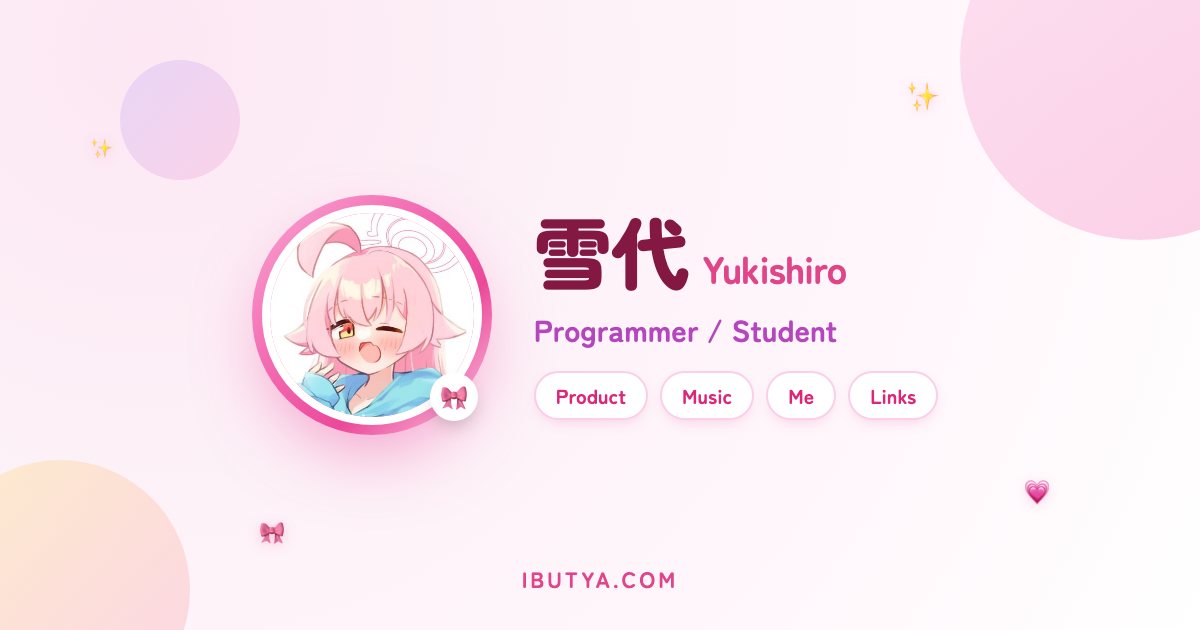
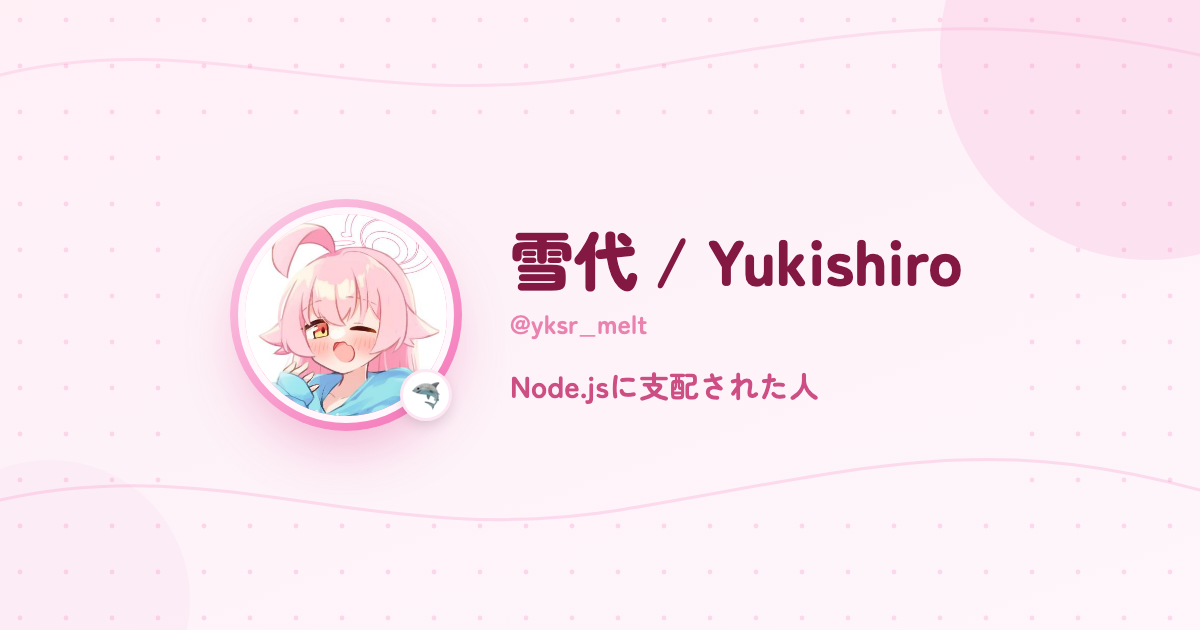
fix: tooltip position jump after hover animation, move achievements to Product
The tooltip entrance animation set the full "transform" property, which
overrode the resting -translate utilities for the animation's duration
and then snapped to them the instant it finished — visible as the
tooltip jumping right after appearing. The animation's end state now
matches the resting transform exactly.

Also moves the achievements card from Me to Product, and refreshes the
link preview image (GitHub avatar/status emoji, evenly-spaced dot
pattern, no more decorative-emoji clutter).

diff --git a/src/pages/Product.tsx b/src/pages/Product.tsx
@@ -1,9 +1,9 @@
 import { motion } from 'framer-motion'
-import { ExternalLink, Star } from 'lucide-react'
+import { ExternalLink, Star, Award } from 'lucide-react'
 import { PageHeader } from '../components/PageHeader'
 import { GithubLogo } from '../components/BrandIcons'
 import { useGithubRepos } from '../hooks/useGithubRepos'
-import { projects } from '../data/mock'
+import { projects, achievements } from '../data/mock'
 
 const statusLabel: Record<string, string> = {
   active: '運用中',
@@ -39,6 +39,39 @@ export function Product() {
         title="作ったもの"
         description="いままでに作ってきたもの。"
       />
+
+      <div className="mb-8 rounded-3xl border border-ink-200/60 bg-white p-5 shadow-softer">
+        <div className="mb-3 flex items-center gap-1.5">
+          <Award size={15} className="text-accent-400" />
+          <h3 className="text-sm font-black text-ink-900">実績</h3>
+        </div>
+        <div className="flex flex-col gap-2">
+          {achievements.map((a) => {
+            const content = (
+              <>
+                <span className="flex h-10 w-10 shrink-0 items-center justify-center rounded-xl bg-ink-50 text-lg shadow-softer">
+                  {a.emoji}
+                </span>
+                <div className="min-w-0">
+                  <p className="text-sm font-bold text-ink-800">{a.title}</p>
+                  <p className="text-xs text-ink-400">{a.description}</p>
+                </div>
+              </>
+            )
+            const className =
+              'flex items-center gap-3 rounded-2xl bg-ink-50 px-4 py-3 transition active:scale-[0.98]'
+            return a.url ? (
+              <a key={a.title} href={a.url} target="_blank" rel="noreferrer" className={className}>
+                {content}
+              </a>
+            ) : (
+              <div key={a.title} className={className}>
+                {content}
+              </div>
+            )
+          })}
+        </div>
+      </div>
 
       <div className="mb-8 grid grid-cols-1 gap-4 sm:grid-cols-2">
         {projects.map((p, i) => (

diff --git a/src/pages/Me.tsx b/src/pages/Me.tsx
@@ -1,5 +1,5 @@
 import { motion } from 'framer-motion'
-import { Mail, Sparkles, Gamepad2, Music, Clapperboard, Laptop, Server, Rocket, Award } from 'lucide-react'
+import { Mail, Sparkles, Gamepad2, Music, Clapperboard, Laptop, Server, Rocket } from 'lucide-react'
 import { PageHeader } from '../components/PageHeader'
 import { useGithubSummary } from '../hooks/useGithubSummary'
 import {
@@ -8,7 +8,6 @@ import {
   interests,
   setup,
   wantToTry,
-  achievements,
   contactEmails,
   type InterestIcon,
   type SetupIcon,
@@ -114,35 +113,6 @@ export function Me() {
               {item}
             </span>
           ))}
-        </div>
-      </Card>
-
-      <Card title="実績" delay={0.15} icon={<Award size={15} className="text-accent-400" />}>
-        <div className="flex flex-col gap-2">
-          {achievements.map((a) => {
-            const content = (
-              <>
-                <span className="flex h-10 w-10 shrink-0 items-center justify-center rounded-xl bg-white text-lg shadow-softer">
-                  {a.emoji}
-                </span>
-                <div className="min-w-0">
-                  <p className="text-sm font-bold text-ink-800">{a.title}</p>
-                  <p className="text-xs text-ink-400">{a.description}</p>
-                </div>
-              </>
-            )
-            const className =
-              'flex items-center gap-3 rounded-2xl bg-ink-50 px-4 py-3 transition active:scale-[0.98]'
-            return a.url ? (
-              <a key={a.title} href={a.url} target="_blank" rel="noreferrer" className={className}>
-                {content}
-              </a>
-            ) : (
-              <div key={a.title} className={className}>
-                {content}
-              </div>
-            )
-          })}
         </div>
       </Card>
 

diff --git a/src/index.css b/src/index.css
@@ -26,7 +26,8 @@
   --shadow-soft: 0 8px 30px -8px rgb(0 0 0 / 0.08);
   --shadow-softer: 0 4px 16px -4px rgb(0 0 0 / 0.06);
 
-  --animate-tooltip-in: tooltip-in 0.12s ease-out;
+  --animate-tooltip-in: tooltip-in 0.12s ease-out forwards;
+  --animate-tooltip-in-above: tooltip-in-above 0.12s ease-out forwards;
   --animate-cell-in: cell-in 0.25s ease-out both;
 
   @keyframes tooltip-in {
@@ -37,6 +38,23 @@
     to {
       opacity: 1;
       transform: translate(-50%, 0) scale(1);
+    }
+  }
+
+  /* Same entrance as tooltip-in, but anchored above the trigger. The end
+     transform must match the tooltip's resting position exactly (including
+     the -translate-x/y that used to live on the element as separate Tailwind
+     utility classes) — otherwise the plain "transform" animation overrides
+     those utilities for its 0.12s, then snaps to them the instant it ends,
+     which reads as the tooltip jumping right after it appears. */
+  @keyframes tooltip-in-above {
+    from {
+      opacity: 0;
+      transform: translate(-50%, calc(-100% - 8px + 4px)) scale(0.95);
+    }
+    to {
+      opacity: 1;
+      transform: translate(-50%, calc(-100% - 8px)) scale(1);
     }
   }
 

diff --git a/src/components/ContributionGraph.tsx b/src/components/ContributionGraph.tsx
@@ -88,7 +88,7 @@ export function ContributionGraph() {
       {hover &&
         createPortal(
           <div
-            className="pointer-events-none fixed z-50 -translate-x-1/2 -translate-y-[calc(100%+8px)] animate-tooltip-in whitespace-nowrap rounded-xl bg-ink-900 px-3 py-1.5 text-center shadow-soft"
+            className="pointer-events-none fixed z-50 animate-tooltip-in-above whitespace-nowrap rounded-xl bg-ink-900 px-3 py-1.5 text-center shadow-soft"
             style={{ left: hover.rect.left + hover.rect.width / 2, top: hover.rect.top }}
           >
             <p className="text-xs font-bold text-white">{hover.day.count} contributions</p>

diff --git a/src/components/LinkIconButton.tsx b/src/components/LinkIconButton.tsx
@@ -39,7 +39,7 @@ export function LinkIconButton({
       {rect &&
         createPortal(
           <div
-            className="pointer-events-none fixed z-50 -translate-x-1/2 animate-tooltip-in whitespace-nowrap rounded-xl bg-ink-900 px-3 py-1.5 text-center shadow-soft"
+            className="pointer-events-none fixed z-50 animate-tooltip-in whitespace-nowrap rounded-xl bg-ink-900 px-3 py-1.5 text-center shadow-soft"
             style={{ left: rect.left + rect.width / 2, top: rect.bottom + 8 }}
           >
             <p className="text-xs font-bold text-white">{name}</p>
